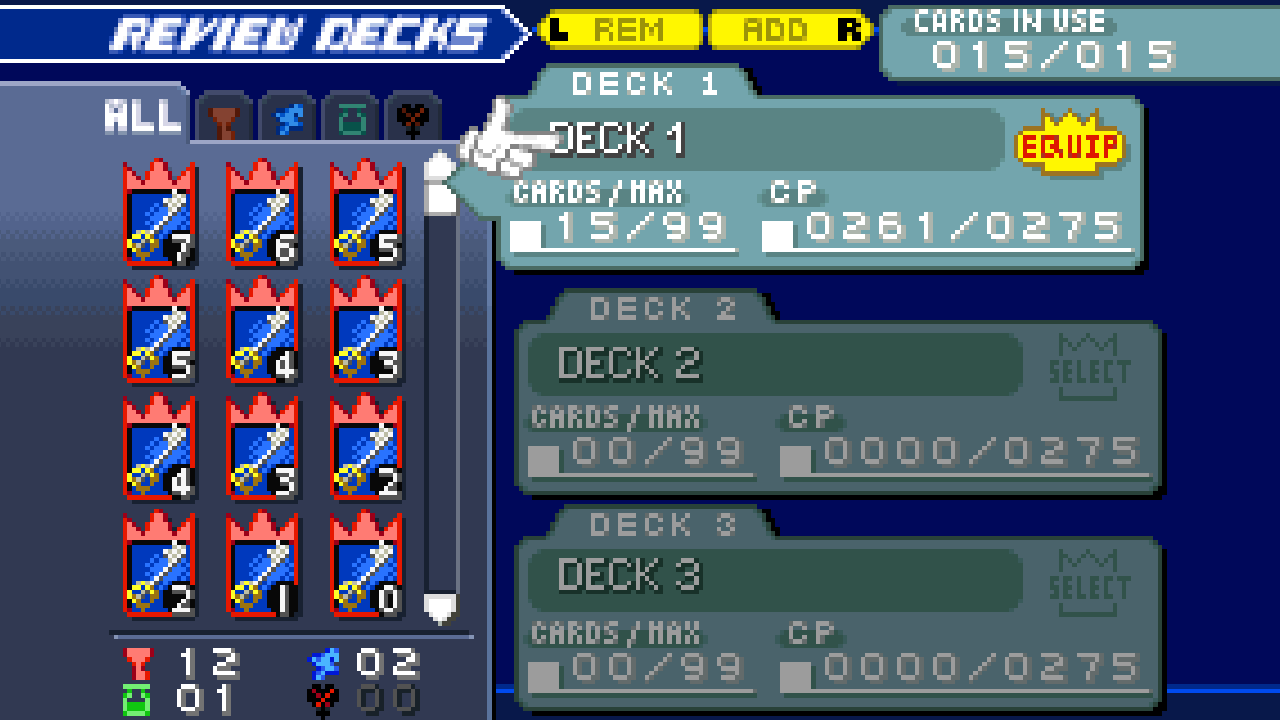
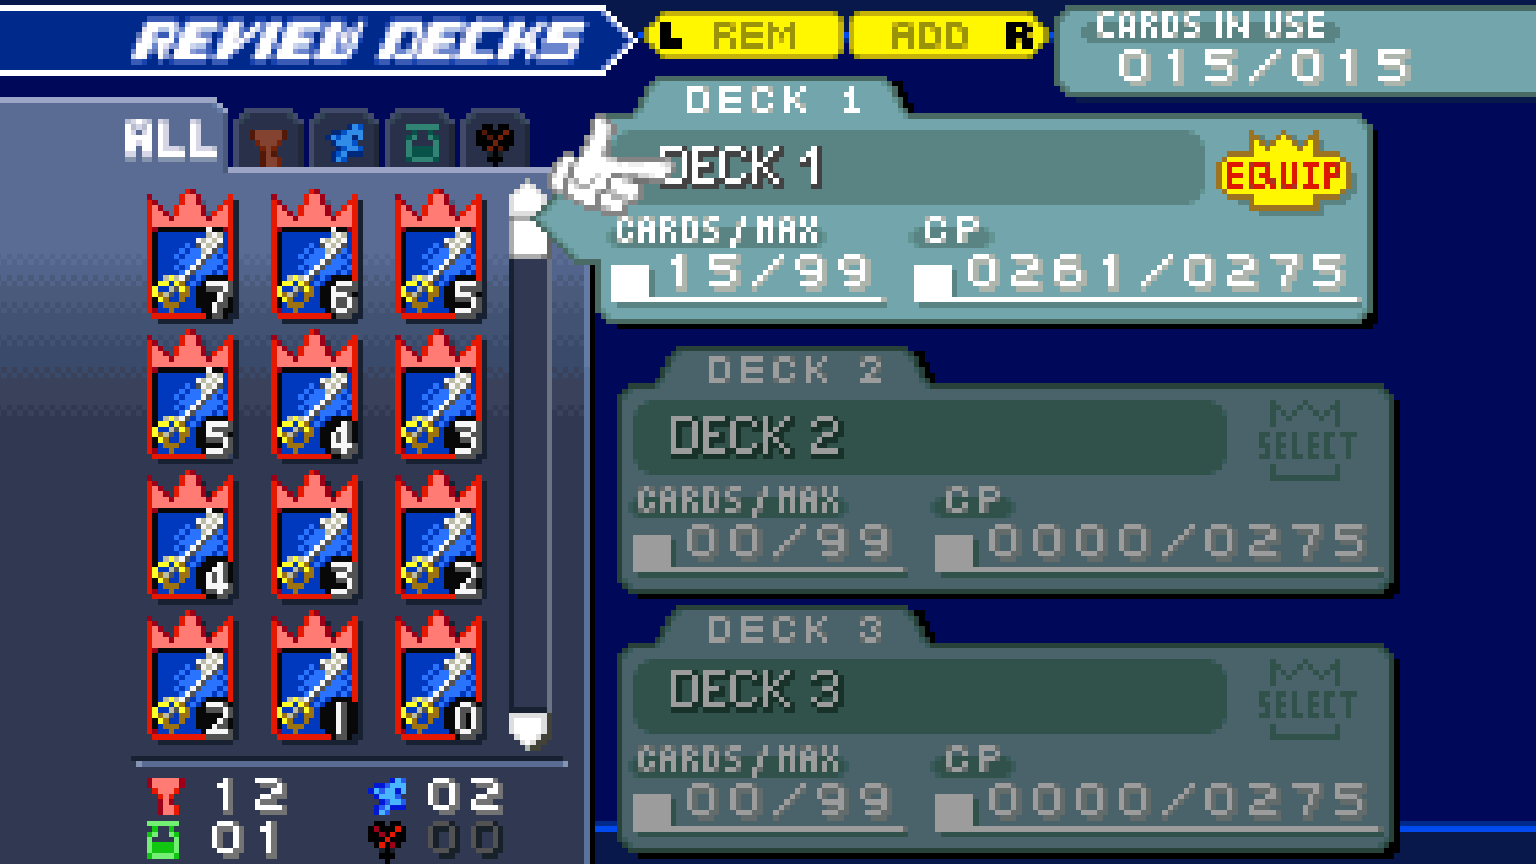
release: refresh v1.8.3 player guide and screenshots

diff --git a/port/tools/refresh_readme_screenshots.py b/port/tools/refresh_readme_screenshots.py
@@ -1,0 +1,111 @@
+"""Capture README screenshots from release builds, using isolated private ROM runs.
+
+Requires EU/US/JP builds in build/rel-* and private dumps in roms/.
+Reuses the trailer's isolated capture helper; never changes player saves.
+"""
+import hashlib
+import json
+import os
+from pathlib import Path
+import shutil
+import subprocess
+import sys
+from concurrent.futures import ThreadPoolExecutor
+from PIL import Image, ImageDraw
+
+ROOT = Path(__file__).resolve().parents[2]
+sys.path.insert(0, str(ROOT / 'port/tools/trailer'))
+from fx import fx
+
+OUT = ROOT / 'docs/screenshots'
+WORK = ROOT / 'build/readme-v183'
+WORK.mkdir(parents=True, exist_ok=True)
+RUN = str(os.getpid())
+M = lambda mode: ['60:room:10901', '120:fieldfreeze', '180:' + mode]
+jobs = [
+    ('battle', [], 300, dict(keys=['60-63:A'], extra={'KHCOM_BATTLE': '10:4:0'})),
+    ('field', ['60:room:10901', '120:fieldfreeze'], 260, dict(keys=['130-170:UP', '171-210:RIGHT'])),
+    ('deck', M('Mode_Deck'), 760, {}),
+    ('status', M('mode_status'), 760, {}),
+    ('mapcards', M('mode_mapinspect'), 760, {}),
+    ('worldcards', M('mode_worldinspect'), 760, {}),
+    ('journal', M('mode_jiminy'), 760, {}),
+    ('worldmap', M('mode_allmap'), 760, {}),
+    ('vortex', M('mode_worldwarp'), 850, {}),
+    ('ultrawide', [], 600, dict(keys=['60-63:A'], extra={'KHCOM_BATTLE': '10:4:0', 'KHCOM_WINDOW': '2560x720'})),
+    ('ultrawide_menu', M('mode_worldinspect'), 760, dict(extra={'KHCOM_WINDOW': '2560x720'})),
+    ('moogle_px', M('mode_ms_top'), 760, {}),
+    ('moogle_hd', M('mode_ms_top'), 760, dict(hd=1)),
+    ('movie_extended', [], 480, dict(extra={'KHCOM_MOVIE': '1'})),
+    ('subtitles_hd', [], 2850, dict(hd=1, extra={'KHCOM_MOVIE': '1'})),
+    ('options', [], 500, dict(extra={'KHCOM_OPTIONS_SHOT': '500'})),
+]
+for language in ['fr', 'de', 'es', 'it']:
+    index = {'fr': 2, 'de': 4, 'it': 1, 'es': 3}[language]
+    keys = [f'{150 + 15 * k}-{151 + 15 * k}:DOWN' for k in range(index)] + ['200-201:A']
+    jobs.append(('lang_' + language, M('mode_jiminy'), 760, dict(lang=language, keys=keys)))
+jobs += [('lang_us', M('mode_jiminy'), 760, dict(build='rel-us', rom='B8CE', lang='en')),
+         ('lang_jp', M('mode_jiminy'), 760, dict(build='rel-jp', rom='B8CJ', lang=None))]
+
+def capture(job):
+    name, modes, frame, options = job
+    if any(mode.startswith('180:') for mode in modes):
+        frame = 260
+    options = dict(options)
+    options.setdefault('keys', [])
+    extra = {'KHCOM_WINDOW': '1536x864', **options.pop('extra', {})}
+    if name.startswith('lang_'):
+        modes = ['300:room:10901', '400:fieldfreeze', '600:mode_jiminy']
+        frame = 760
+    extra['KHCOM_TRACE_MODES'] = '1'
+    files = fx('readme183_' + RUN + '_' + name, modes, [frame], save=False, lang=options.pop('lang', 'en'), extra=extra, **options)
+    assert files, name
+    log = (files[-1].parent / 'kh_com.log').read_text(errors='replace')
+    assert 'harness: no mode' not in log, log
+    source = files[-1]
+    if name == 'options':
+        source = source.parent / 'shot_options.bmp'
+    im = Image.open(source).convert('RGB')
+    im.save(OUT / (name + '.png'), optimize=True)
+    print(name, im.size, flush=True)
+    return name
+
+with ThreadPoolExecutor(max_workers=2) as pool:
+    names = list(pool.map(capture, jobs))
+
+stage = WORK / 'launcher'
+stage.mkdir(exist_ok=True)
+for filename in ['ReKHCoM.exe', 'SDL3.dll']:
+    shutil.copy2(ROOT / 'build/rel-eu' / filename, stage / filename)
+for region in ['eu', 'us', 'jp']:
+    target = stage / 'bin' / ('khcom_' + region + '.exe')
+    target.parent.mkdir(exist_ok=True)
+    shutil.copy2(ROOT / f'build/rel-{region}/khcom.exe', target)
+shutil.copytree(ROOT / 'port/decompui/assets', stage / 'assets', dirs_exist_ok=True)
+shutil.copytree(ROOT / 'port/assets/fonts', stage / 'assets/fonts', dirs_exist_ok=True)
+(stage / 'decompui.ini').write_text('ui_language=2\ngame_language=en\n')
+shots = stage / 'shots'
+shots.mkdir(exist_ok=True)
+env = {k: v for k, v in os.environ.items() if not k.startswith(('KHCOM_', 'SDL_', 'DECOMPUI_'))}
+env.update(DECOMPUI_SHOT=str(shots), DECOMPUI_INSTALL=str(ROOT / 'roms/B8CP.gba'))
+for hint in ['SDL_XINPUT_ENABLED', 'SDL_JOYSTICK_HIDAPI', 'SDL_JOYSTICK_RAWINPUT',
+             'SDL_JOYSTICK_DIRECTINPUT', 'SDL_JOYSTICK_WGI', 'SDL_JOYSTICK_GAMEINPUT',
+             'SDL_JOYSTICK_GAMEINPUT_RAW']:
+    env[hint] = '0'
+subprocess.run([str(stage / 'ReKHCoM.exe')], cwd=stage, env=env, check=True, timeout=90, creationflags=0x08000000)
+Image.open(shots / 'decompui_0.bmp').convert('RGB').save(OUT / 'launcher.png', optimize=True)
+names.append('launcher')
+
+sheet = Image.new('RGB', (960, 196 * ((len(names) + 2) // 3)), '#222222')
+draw = ImageDraw.Draw(sheet)
+for i, name in enumerate(names):
+    im = Image.open(OUT / (name + '.png')).convert('RGB')
+    im.thumbnail((320, 170))
+    x, y = (i % 3) * 320, (i // 3) * 196
+    sheet.paste(im, (x, y))
+    draw.text((x + 5, y + 173), name, fill='white')
+sheet.save(WORK / 'contact.png')
+manifest = {'version': 'v1.8.3', 'zoom': 'x4', 'captures': names,
+            'build_sha256': {r: hashlib.sha256((ROOT / f'build/rel-{r}/khcom.exe').read_bytes()).hexdigest() for r in ['eu', 'us', 'jp']},
+            'retained_unchanged_reference_images': ['newgame_version.png', 'newgame_difficulty.png']}
+(WORK / 'manifest.json').write_text(json.dumps(manifest, indent=2))

diff --git a/port/tools/test_card_menu_margins.py b/port/tools/test_card_menu_margins.py
@@ -17,9 +17,12 @@ def run(c):
  (d/'kh_com.ini').write_text(f'config_version=11\nview_mode=4\nzoom={z}\nhd_text=1\nnarrow_fit=1\n')
  e={k:v for k,v in os.environ.items() if not k.startswith(('KHCOM_','SDL_'))}
  for hint in ['SDL_XINPUT_ENABLED','SDL_JOYSTICK_HIDAPI','SDL_JOYSTICK_RAWINPUT','SDL_JOYSTICK_DIRECTINPUT','SDL_JOYSTICK_WGI','SDL_JOYSTICK_GAMEINPUT','SDL_JOYSTICK_GAMEINPUT_RAW']:e[hint]='0'
- e.update(SDL_VIDEO_DRIVER='dummy',SDL_AUDIO_DRIVER='dummy',KHCOM_FAST='1',KHCOM_WINDOW=f'{W}x{H}',KHCOM_MODE=f'60:room:10901,120:fieldfreeze,180:{mode}',KHCOM_KEYS='470-472:B',KHCOM_QUIT='510',KHCOM_OUTPUT_SHOT=','.join(map(str,frames)),KHCOM_TRACE_MODES='1')
+ actual_mode='Mode_Deck' if mode=='mode_deck' else mode
+ e.update(SDL_VIDEO_DRIVER='dummy',SDL_AUDIO_DRIVER='dummy',KHCOM_FAST='1',KHCOM_WINDOW=f'{W}x{H}',KHCOM_MODE=f'60:room:10901,120:fieldfreeze,180:{actual_mode}',KHCOM_KEYS='470-472:B',KHCOM_QUIT='510',KHCOM_OUTPUT_SHOT=','.join(map(str,frames)),KHCOM_TRACE_MODES='1')
  subprocess.run([str(d/'khcom.exe'),'--rom',str(ROOT/'roms/B8CP.gba'),'--language','es'],cwd=d,env=e,check=True,timeout=180,stdout=subprocess.DEVNULL,stderr=subprocess.DEVNULL)
- assert f'mode {mode}' in (d/'kh_com.log').read_text(errors='replace')
+ log=(d/'kh_com.log').read_text(errors='replace')
+ assert 'harness: no mode' not in log,log
+ assert f'mode {actual_mode}' in log
  rows={}
  for f in frames:
   file=d/f'out_{f:05d}.bmp';im=Image.open(file).convert('RGB');file.unlink()

diff --git a/README.md b/README.md
@@ -4,18 +4,35 @@ Native PC port of **Kingdom Hearts: Chain of Memories** (Game Boy Advance), buil
 on top of the matching decompilation by [Pheenoh/khcom](https://github.com/Pheenoh/khcom).
 
 The decompiled game runs as a real Windows program, with its own renderer, audio
-and launcher, in 16:9 and at the cartridge's exact speed (59.7275 Hz).
+and launcher, with widescreen and ultrawide support at the cartridge's original speed.
 
 <p align="center">
   <a href="https://github.com/MatyMeatBoy/ReKHCom/releases/latest"><b>⬇ Download ReKHCoM v1.8.3 for Windows</b></a>
   &nbsp;·&nbsp; <a href="CHANGELOG.md">Changelog</a>
-  &nbsp;·&nbsp; <a href="https://github.com/MatyMeatBoy/ReKHCom/releases">All releases</a>
+  &nbsp;·&nbsp; <a href="https://github.com/MatyMeatBoy/ReKHCom/tags">Previous version tags</a>
 </p>
 
 Works with the **European, US and Japanese** cartridges (your own dump; no ROM is
 included), in all five European languages, English (US) and Japanese.
 
 <p align="center"><img src="docs/screenshots/battle.png" width="49%"> <img src="docs/screenshots/field.png" width="49%"></p>
+
+## What's new in v1.8.3
+
+- **Cleaner menu animations.** The pointing glove no longer turns into a white
+  stripe when opening or closing Map Cards. Status screens keep their corrected
+  transitions too, including on ultrawide monitors.
+- **All recent fixes included.** Smoother audio without the reported buzz, cleaner
+  room changes and title fades, and correctly filled cinematic borders.
+- **x4 zoom by default.** Choose your preferred numbered scale in the launcher or
+  in-game options. No intermediate steps clutter the selector.
+- **Crisp text where it helps.** Optional HD dialogue, subtitles and menus;
+  experience and level-up numbers keep their original pixel art.
+
+The gameplay, menu, language and launcher screenshots below were captured from
+v1.8.3. The unchanged new-game selection screens remain reference images.
+
+<p align="center"><img src="docs/screenshots/mapcards.png" width="49%"> <img src="docs/screenshots/status.png" width="49%"></p>
 
 ## Highlights
 
@@ -24,8 +41,8 @@ included), in all five European languages, English (US) and Japanese.
   get margins drawn from the screen's own art (bars, boxes, panels, stipple,
   checkerboards) on the picture's exact pixel grid at any scale. An *Aspect
   ratio* option keeps the picture at 16:9 or 21:9 on wider monitors.
-- **Original speed and sound.** One game update per VBlank, as on the GBA;
-  m4a music, PSG and PCM reimplemented in C; native movie playback.
+- **Original pace, smoother sound.** Play at the cartridge's original speed,
+  with optional audio smoothing and native movie playback.
 - **Launcher.** Installs and checks your dump (SHA-1), picks the version,
   language, graphics, sound, controls and saves; imports GBA saves.
 - **Two ways to play.** New Game asks for the version: the original, exactly
@@ -38,7 +55,7 @@ included), in all five European languages, English (US) and Japanese.
 
 ### Ultrawide monitors
 
-The same view stretches to 21:9 and 32:9 screens: the world gets wider, the HUD
+The view expands to 21:9 and 32:9 screens: the world gets wider, the HUD
 stays in the corners and the menus carry their own art out to the edges.
 
 <p align="center"><img src="docs/screenshots/ultrawide.png" width="98%"></p>
@@ -110,7 +127,8 @@ subtitles use a crisp font at the window's resolution.
 
 ## Running (Windows)
 
-1. Extract `ReKHCoM-v1.7.1-windows-x86.zip` into a writable folder.
+1. Download the [stable v1.8.3 ZIP](https://github.com/MatyMeatBoy/ReKHCom/releases/tag/v1.8.3)
+   and extract `ReKHCoM-v1.8.3-windows-x86.zip` into a writable folder.
 2. Run `ReKHCoM.exe` and install your cartridge dump with **Install ROM...** (or drag
    the file onto the window). The dump is checked by SHA-1 and copied to `roms/`.
 3. Press **Play**. The launcher starts `khcom_eu.exe`, `khcom_us.exe` or `khcom_jp.exe`
@@ -130,6 +148,7 @@ to the build that created them.
 
 ### Known limitations
 
+- Some HD text can overlap the Deck View submenu; that separate issue is still open.
 - Movie transitions during events and the ending still need verification.
 - Neither Sora's story nor Reverse/Rebirth has a verified full playthrough.
 - Some rendering, audio streaming, and widescreen scenes still need verification.

diff --git a/port/progress/RELEASE_V183.md b/port/progress/RELEASE_V183.md
@@ -25,8 +25,8 @@ del modo vivo y no necesita una bandera adicional para los estados.
   1536x864 x4, 1920x1080 x3, 5120x1440 x6. En la matriz completa el guante
   contaminaba los frames222..225; corregidos en las tres configuraciones.
   Todos los rectángulos originales coinciden píxel a píxel. Frame estable260
-  completo conservado en Naipes mapa. El fixture de Deck no muestra nuevos
-  cambios. Informe: build/mapcard-transition/review/report.json.
+  completo conservado en Naipes mapa. El fixture corregido de Deck (Mode_Deck, nombre sensible a mayúsculas)
+  no muestra nuevos cambios. Informe: build/mapcard-transition/review/report.json.
 - Estado: test_status_margins.py pasa a 1920x1080 y 5120x1440 con NUEVO on/off.
 - EU/US/JP compilan. Mandos físicos aislados solo en los subprocesos de prueba.
 - Sin cambios en escalas, x4 predeterminado, audio ni formatos de .sav.
@@ -36,4 +36,22 @@ Ver barajas: ese problema queda fuera de esta corrección.
 
 ## Publicación
 
-Pendiente verificación de ZIP/SHA y preparación local de v1.8.3.
+ZIP verificado: CRC íntegro, cuatro ejecutables idénticos a los builds probados,
+ninguna ROM/partida/estado/configuración personal. 21.078.082 bytes, SHA-256:
+b3abf8685532393b0f0b4ab090dbc30757cd835b840e5398ecbd7f1dc5f83b51.
+
+Copia local ../ReKHCoM-v1.8.3/ReKHCoM-v1.8.3-windows-x86 y acceso
+../Probar ReKHCoM v1.8.3.bat. Se copian las partidas normales y ajustes de
+v1.8.2 sin sobrescribir; los estados rápidos antiguos permanecen con su build.
+
+Pedido adicional: única stable v1.8.3, tags anteriores conservados. README con
+resumen para jugadores y galería renovada. Captura reproducible:
+port/tools/refresh_readme_screenshots.py; manifiesto local y hoja de revisión
+en build/readme-v183. Selección de idioma real antes de abrir cada menú;
+no enviar confirmaciones A una vez abierto el menú para evitar capturar combate.
+La revisión detectó que el primer fixture usaba mode_deck y solo comprobaba
+una subcadena presente incluso en el aviso «no mode». Ahora usa Mode_Deck,
+rechaza ese aviso y verifica la entrada real. Matriz repetida: PASS.
+Las dos pantallas inalteradas de selección de nueva partida siguen de referencia.
+
+Pendiente publicación y verificación remota.

diff --git a/CHANGELOG.md b/CHANGELOG.md
@@ -4,9 +4,12 @@
 
 ## v1.8.3 — 2026-10-16
 
-- Map Cards: draw transition margins from the background panels, preventing
-  the pointing glove from stretching into a horizontal stripe on entry/exit.
-- Apply the same foreground protection to Deck View; retain the Status fix.
+- Map Cards: the pointing glove no longer stretches into a white stripe when
+  opening or closing the menu, including on ultrawide screens.
+- Deck View uses the same protection during transitions. Status keeps its
+  corrected animations, including NEW notices.
+- Includes the recent audio, cinematic border, room transition and zoom fixes;
+  x4 remains the default. Normal saves remain compatible.
 
 ## v1.8.2 — 2026-10-16
 

diff --git a/port/progress/CODEX_COORDINACION.md b/port/progress/CODEX_COORDINACION.md
@@ -9,7 +9,9 @@ Mapinspect y Deck; Codex verifica e integra ese cambio.
 - [x] Antes/después: entrada/salida de Naipes mapa y Ver barajas, tres
   resoluciones y zoom x3/x4/x6; regresión de Estado.
 - [x] Compilación EU/US/JP.
-- [ ] Publicar v1.8.3 y preparar copia local con partidas normales conservadas.
+- [x] ZIP verificado; copia local v1.8.3 con partidas normales conservadas.
+- [ ] Publicar v1.8.3 como única stable; retirar release anterior conservando tags.
+- [ ] Renovar README y capturas con información útil para jugadores.
 
 El texto HD por encima del submenú de Ver barajas sigue siendo otro pendiente.
 

diff --git a/port/progress/REPARTO.md b/port/progress/REPARTO.md
@@ -9,7 +9,9 @@ Mapinspect y Deck; Codex verifica e integra ese cambio.
 - [x] Antes/después: entrada/salida de Naipes mapa y Ver barajas, tres
   resoluciones y zoom x3/x4/x6; regresión de Estado.
 - [x] Compilación EU/US/JP.
-- [ ] Publicar v1.8.3 y preparar copia local con partidas normales conservadas.
+- [x] ZIP verificado; copia local v1.8.3 con partidas normales conservadas.
+- [ ] Publicar v1.8.3 como única stable; retirar release anterior conservando tags.
+- [ ] Renovar README y capturas con información útil para jugadores.
 
 El texto HD por encima del submenú de Ver barajas sigue siendo otro pendiente.
 
